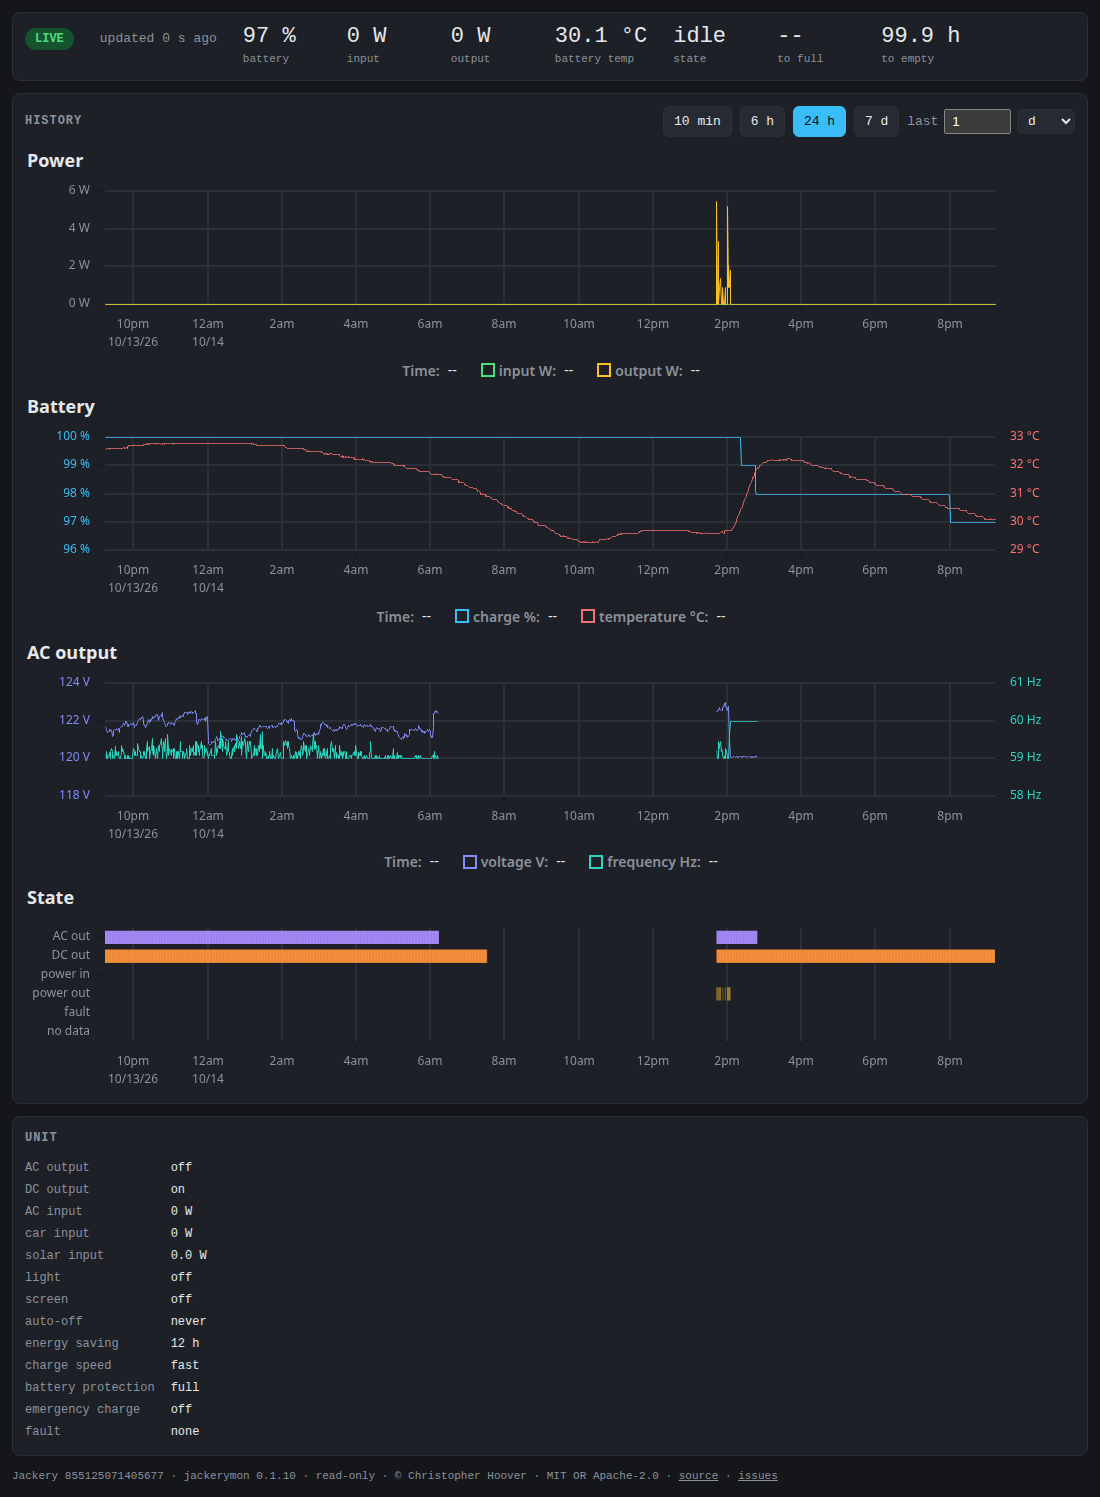
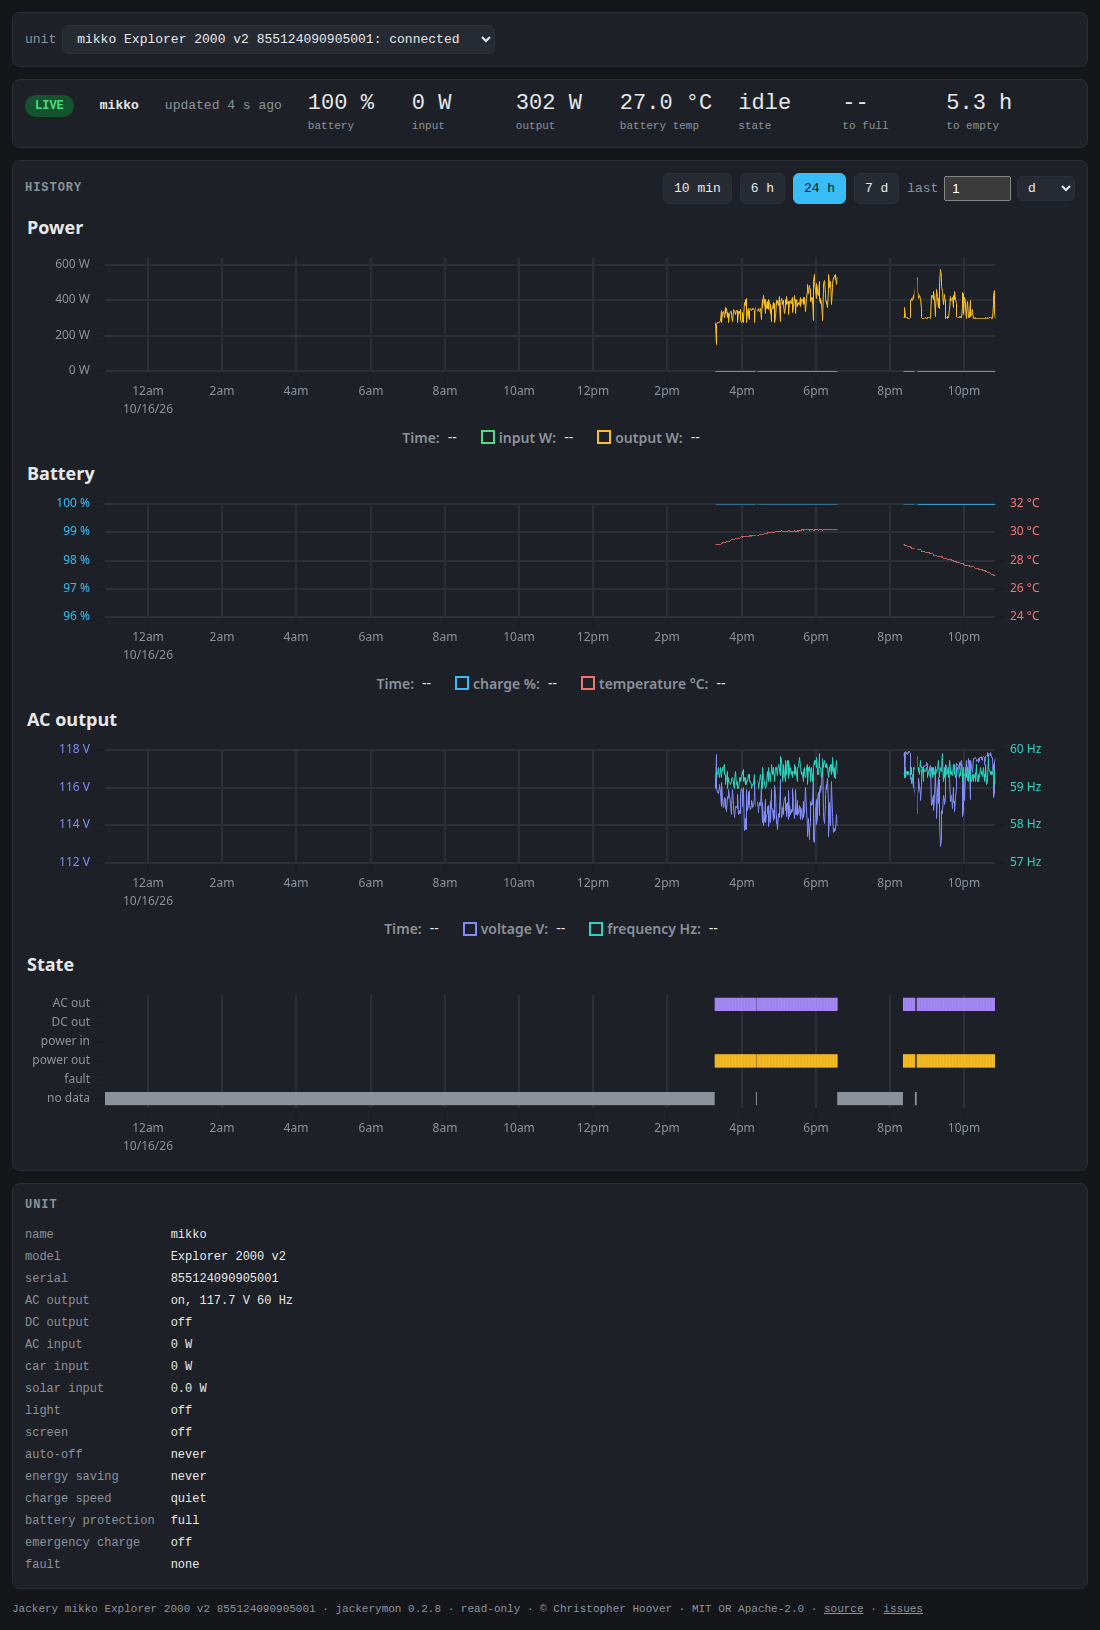
README and package descriptions: HomePower, several units; new screenshot

diff --git a/README.md b/README.md
@@ -1,7 +1,8 @@
 # jackerymon
 
-Monitor and control a Jackery Explorer power station over Bluetooth LE,
-without Jackery's cloud.  Linux only.  Background: [PLAN.md](PLAN.md),
+Monitor and control Jackery Explorer and HomePower power stations over
+Bluetooth LE, one or several at once, without Jackery's cloud.  Linux
+only.  Background: [PLAN.md](PLAN.md),
 [FINDINGS.md](FINDINGS.md), [docs/protocol.md](docs/protocol.md).
 
 ![The daemon's web view: a day of power and battery history](docs/images/web.png)
